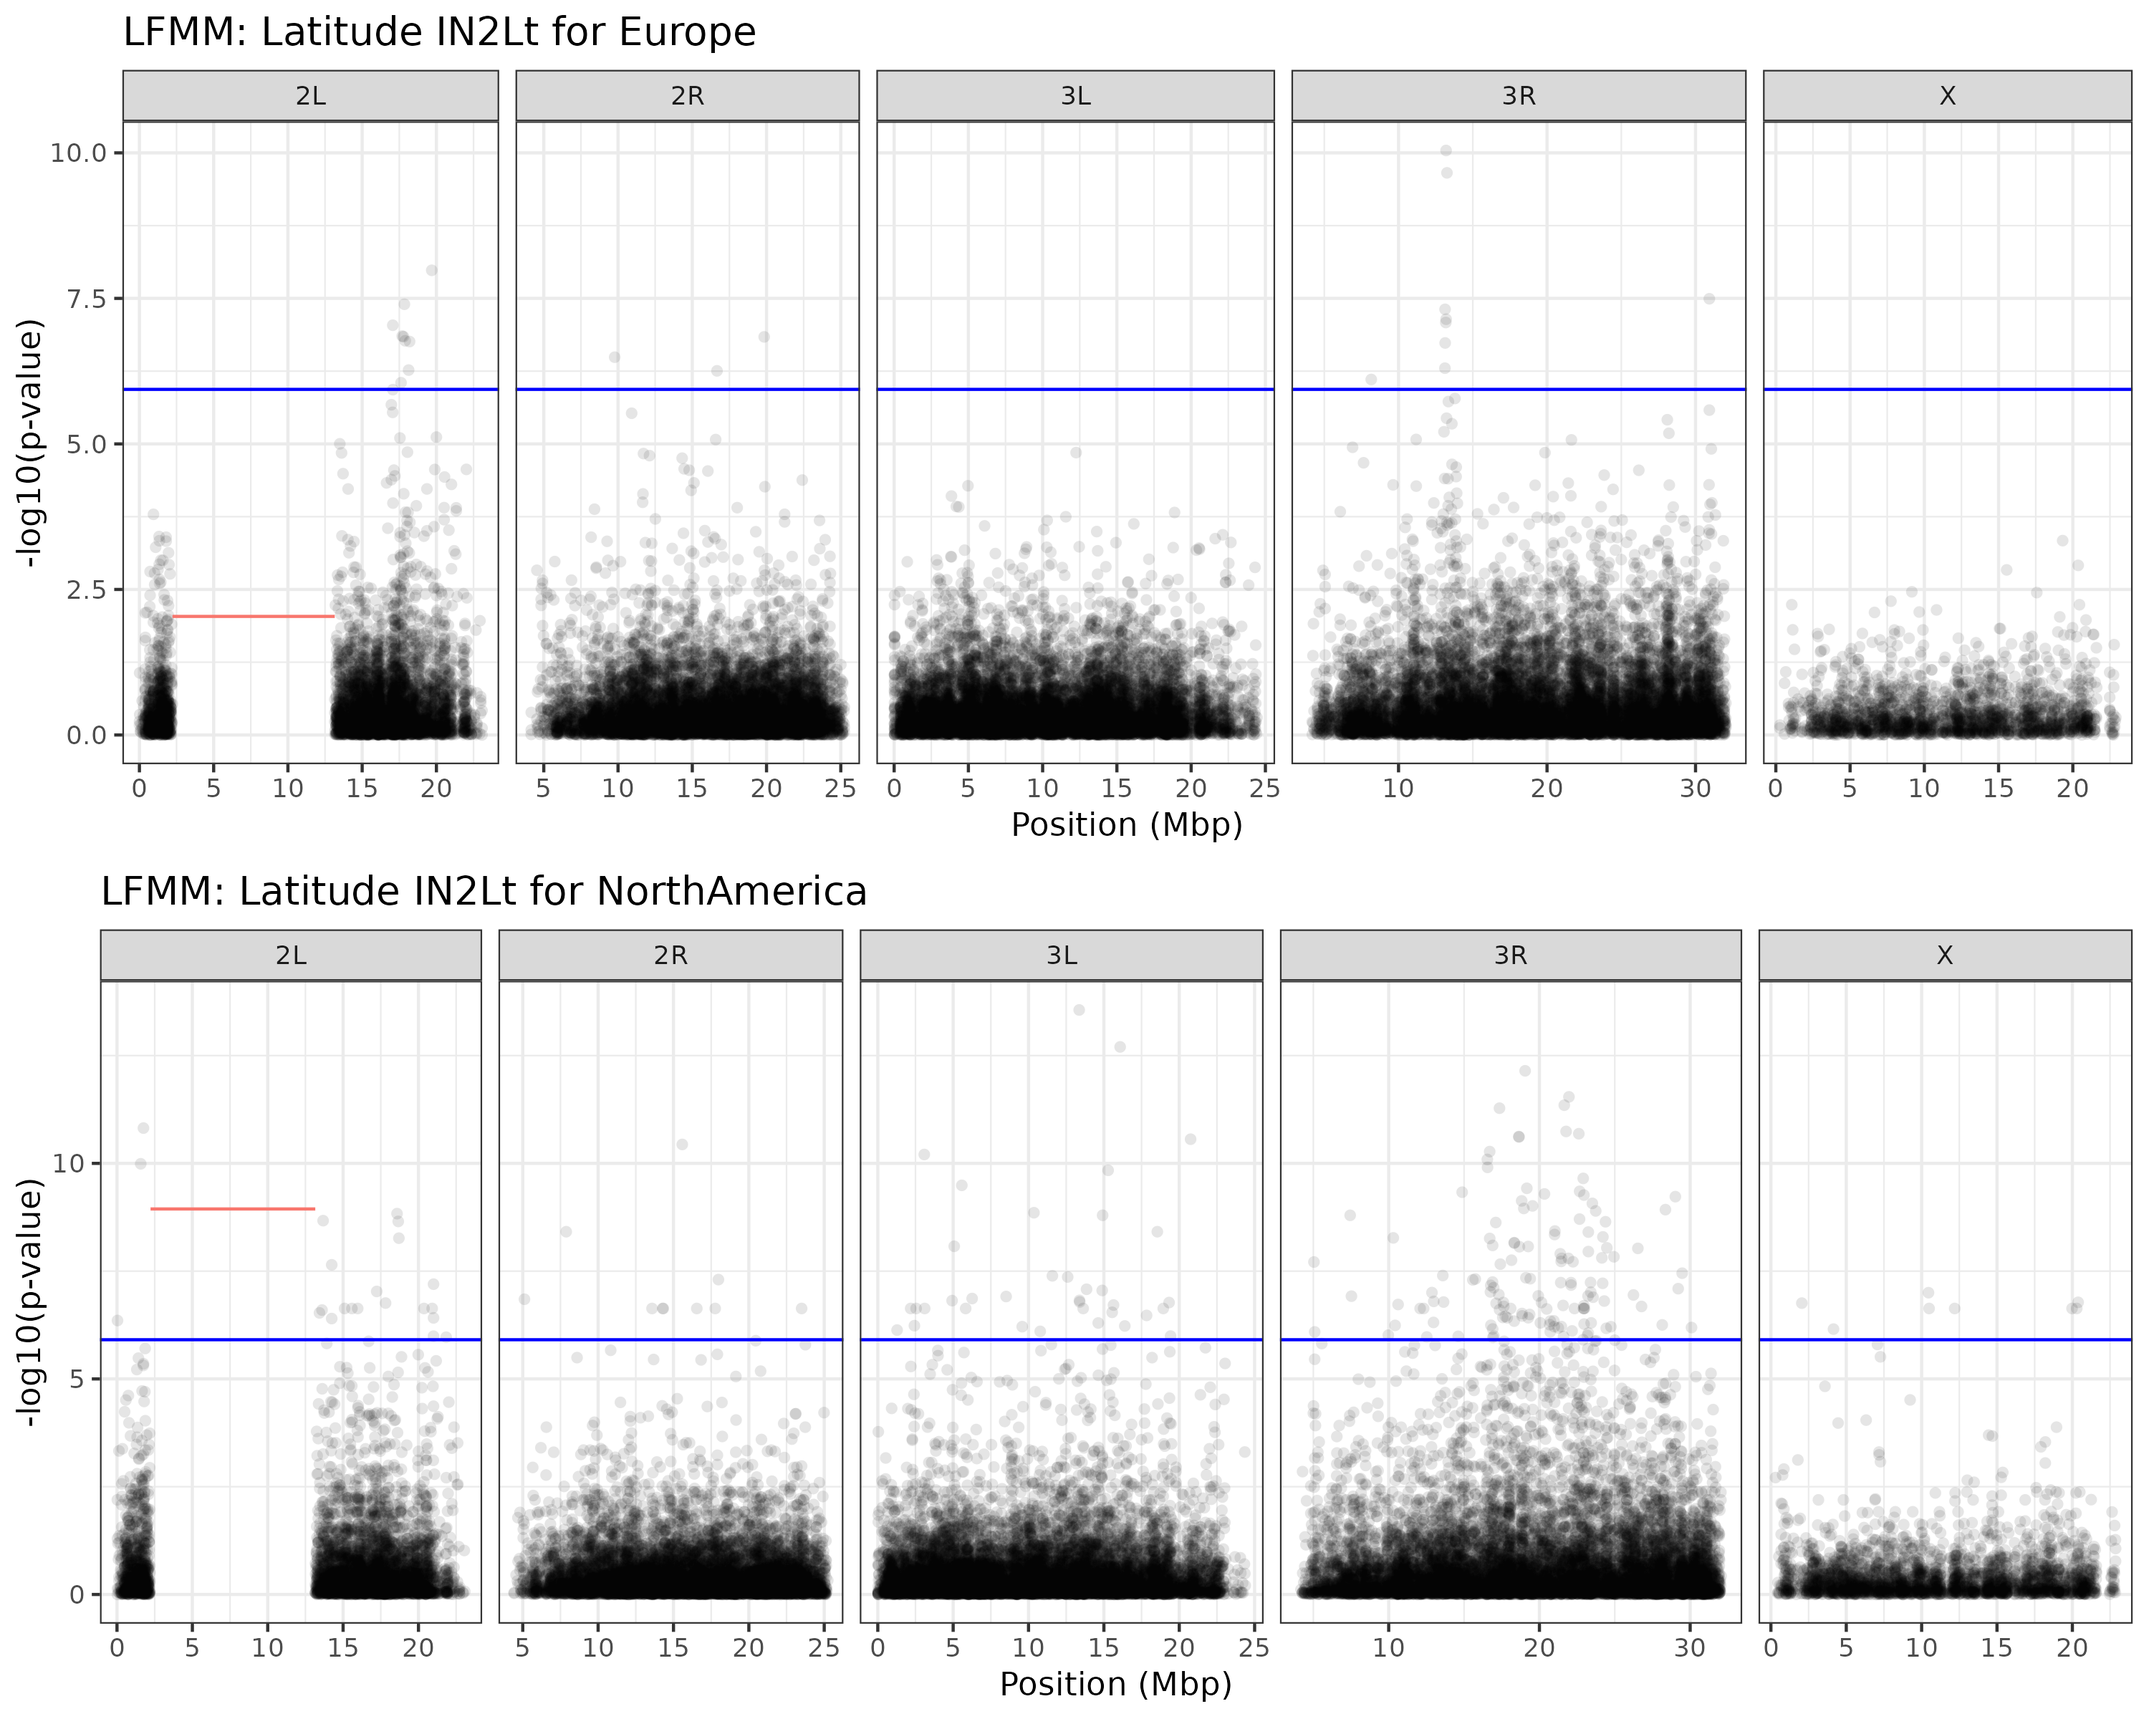
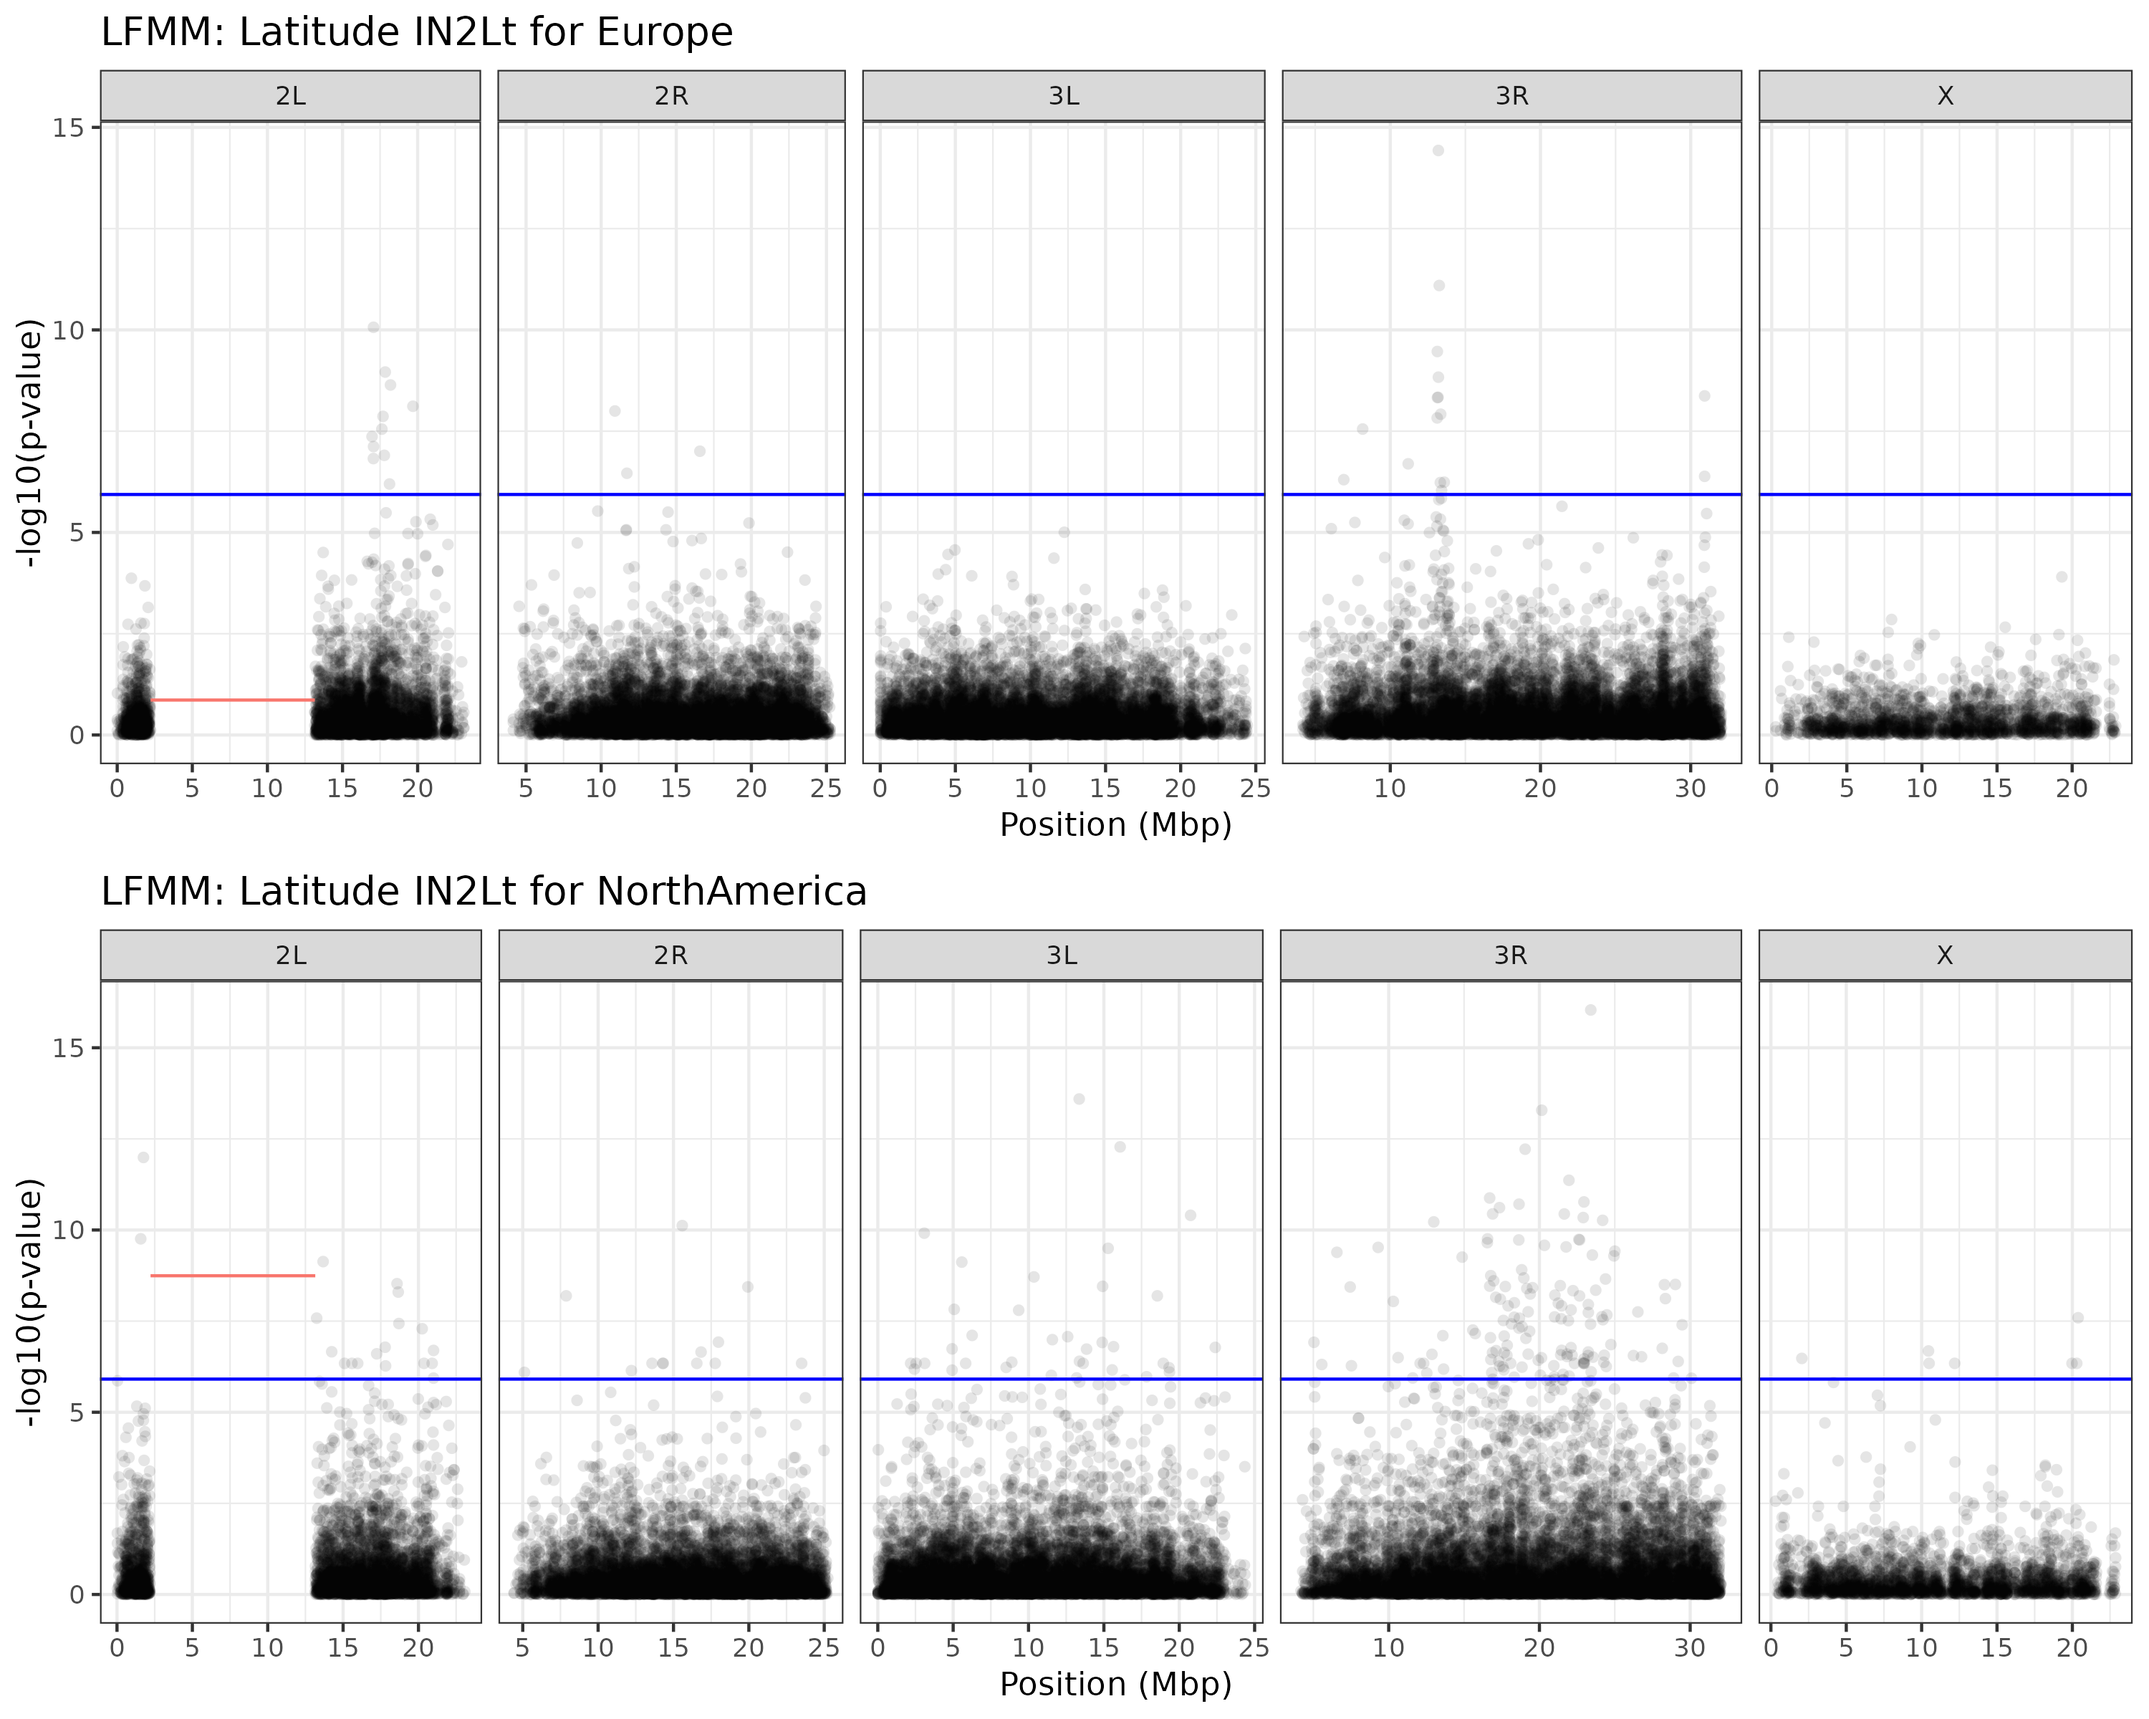
updates

diff --git a/README.md b/README.md
@@ -553,7 +553,7 @@ All four manhattan plots shown in Figure 7 depict that SNPs, whose allele freque
 #### (4.4) Clinal patterns of chromosomal inversions
 Many decades of research have reported clinal distributions, i.e., gradual frequency changes of several inversions along environmental gradients. One particularly prominent example is the latitudinal cline of *In(3R)Payne* along the North American East Coast. Here, we will similarly test if the inversion frequencies estimated by our diagnostic marker SNPs show these expected patterns along latitudinal and longitundial gradients in Europe and North America. Moreover, we will test if these patterns can be explained by neutral evolution (for example, isolation by distance, secondary contact, admixture) alone. In contrast, if the inversion has evolved a clinal distribution due to spatially varying selection, we would assume that the clinal patterns strongly deviate from the genomic background. However, sometimes it is difficult to distinguish neutral and adaptive genomic signals. If, for example, population samples show very strong population structure along an environmental gradient, it may be misleading to only investigate allele frequency differences at a single gene (or inversion) that is considered a candidate for selection. A signal for strong association of allele frequencies at the gene (or inversion) with the environmental gradient may be strongly confounded by the (unknown) population structure, which would lead to similar patterns of genetic differentiation between the populations across the whole genome. Thus, a signal of differentiation at a single locus may be misinterpreted as the result of selection, while it is in reality the result of the unknown genome-wide evolutionary history. To account for this, we will employ a stastistical approach from landscape genomics. Latent factor mixed models (LFMMS) first identify genome-wide patterns of genetic variation by PCA (very similar to our approach in 3.2) assuming that the first few PC axes capture genomewide differences which are predominantly the result of the demographic history of the sampled populations. These PC axes are then used as latent (hidden) factors in regression models, which test for associations between allele frequencies and the focal environmental variables, in our case latitude and longitude. 
 
-> As a first step, we will test for clinality of the inversions along latitude and longitude in Europe and North America. We will fit general linear models including arcsine square-root transformed inversion frequencies as our dependent variables, which accounts for the skewed variance distribution in binomial data when normality is assumed. Then, we will overlay scatter-plots based on environmental variables and inversion frequencies with a logistic regression curve and print the *p*-value of the linear models in the top-right corner of each plot using the *R*-script `Plot_clinality.r`. 
+> As a first step, we will test for clinality of the inversions along latitude and longitude in Europe and North America. We will fit general linear models including arcsine square-root transformed inversion frequencies as our dependent variables, which accounts for the skewed variance distribution in binomial data when normality is assumed. Then, we will overlay scatter-plots based on environmental variables and inversion frequencies with a logistic regression curve and print the *p*-value of the linear models in the top-right corner of each plot using the *R*-script `Plot_Clinality.r`. 
 
 ```bash
 ## test for clinality of inversion frequency
@@ -565,8 +565,33 @@ for index in ${!DATA[@]}; do
         ${WD}
 done
 ```
-The plots in Figure 8 below are consitent with our a-priori information. We do find highly consistent
+The plots in Figure 8 below are consitent with our a-priori expections. We do find highly significant inversion clines both for both inversions along latitude in North America and for *In(3R)Payne* also in Europe. In all cases the inversions appear to be frequent in the South and rapdily decline in frequency with increasing latitude. Conversely, very weak clines along longitude are only found for *In(3R)Payne* in Europe and for *In(2L)t* in North America. While these clines may be the result of spatially varying selection, we cannot rule out based on this simple analyis that the observed clinal patterns are alternatively the result of the demographic history of the investigated populations.
 
 ![Figure8_top](output/Clines_IN2Lt.png)
 ![Figure8_bottom](output/Clines_IN3RP.png)
+
+> In the final analyses of this book chapter, we will employ LFMMs to test if the inversion clines deviate from neutral expectations. We will therefore again use the allele frequency matrices for the two continental subsets, add the frequency information of the inversion to the matrix and obtain information of latitudinal and longitudinal coordinates for all samples from the metadata table. Importantly, since we want to assess the clinal patterns of an inversion relative to the genomic background, we will exclude all SNPs located within the genomic region of the inversion for the calculation of the background to avoid confounding our analysis by a high degree of linkage with SNPs in this genomic region. Then, we will perform a PCA of these SNPs and only consider a subset of the PC-axes as latent factors for the calculation of the latent factor mixed models. Here, we will include all PC-axes that cummulatively explain at least 25% of the genetic variation to avoid overfitting the model with too many latent factors. After calculating SNP-wise LFMMs using latitude and longitude as predictor variables, we will visualize the -log<sub>10</sub>-transformed *p*-values in Manhattan plots and include the *p*-value of the inversion as a horizontal bar at the corresponding genomic position. We will furthermore add the Bonferroni-corrected *p*-value threshold as a blue horizontal line. This threshold will be calculated by dividing the significance threshold *&alpha;* = 0.05 by the total number of tests and will help us to account for a multiple testing problem which could lead to significant results by chance alone. Particularly, if the p-value of the inversion is higher than the -log<sub>10</sub>-transformed threshold, we can assume that the clinal patterns cannot be explained by chance and neutral evolution alone. The commands to carry out all the above-mentioned anaylses steps in *R* are stored in `LFMM.r`.
+
+```bash
+### Test with LFMMs if clinality due to demography or potentially adaptive
+for index in ${!DATA[@]}; do
+
+    INVERSION=${DATA[index]}
+    St=${Start[index]}
+    En=${End[index]}
+    Ch=${Chrom[index]}
+
+    Rscript ${WD}/scripts/LFMM.r \
+        ${INVERSION} \
+        ${Ch} \
+        ${St} \
+        ${En} \
+        ${WD}
+
+done
+```
+
+![Figure9_top](output/LFMM_IN2Lt_Latitude.png)
+![Figure9_bottom](output/LFMM_IN3RP_Latitude.png)
+
 
